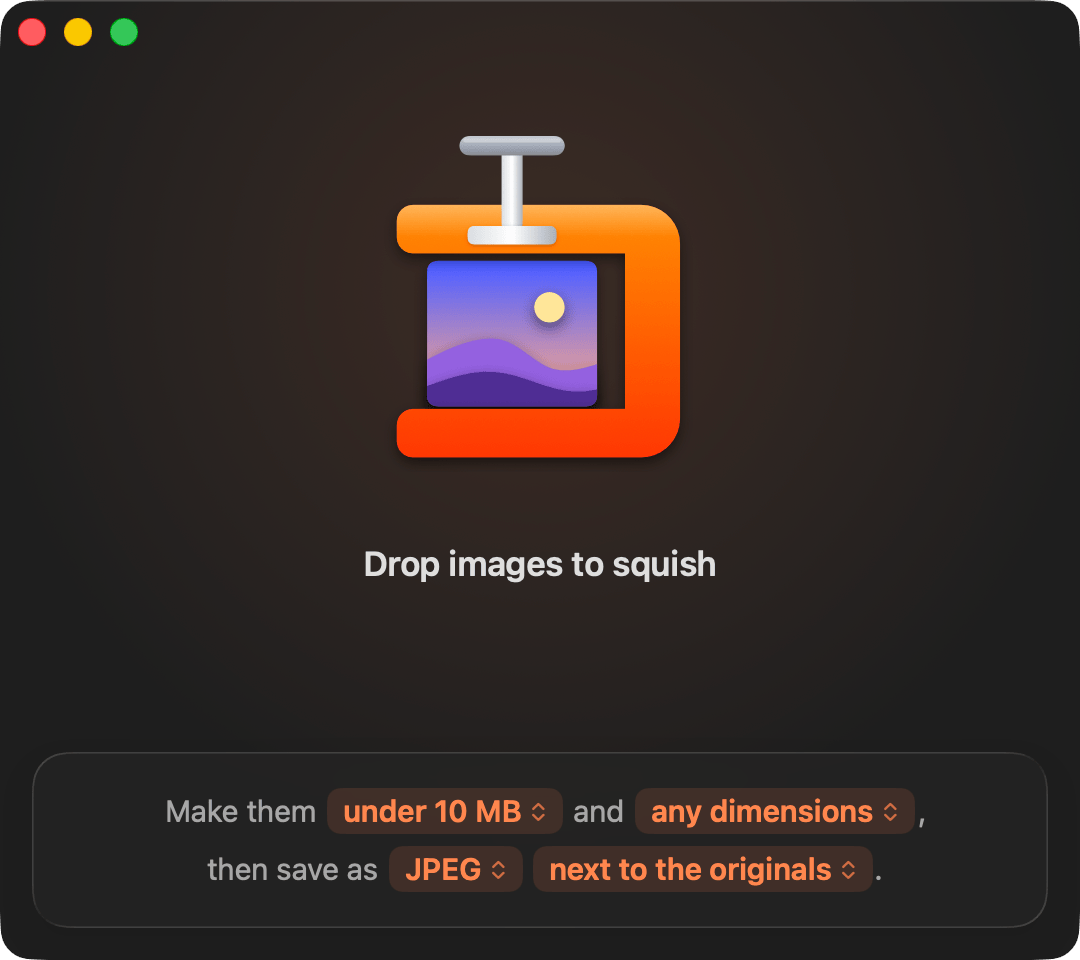
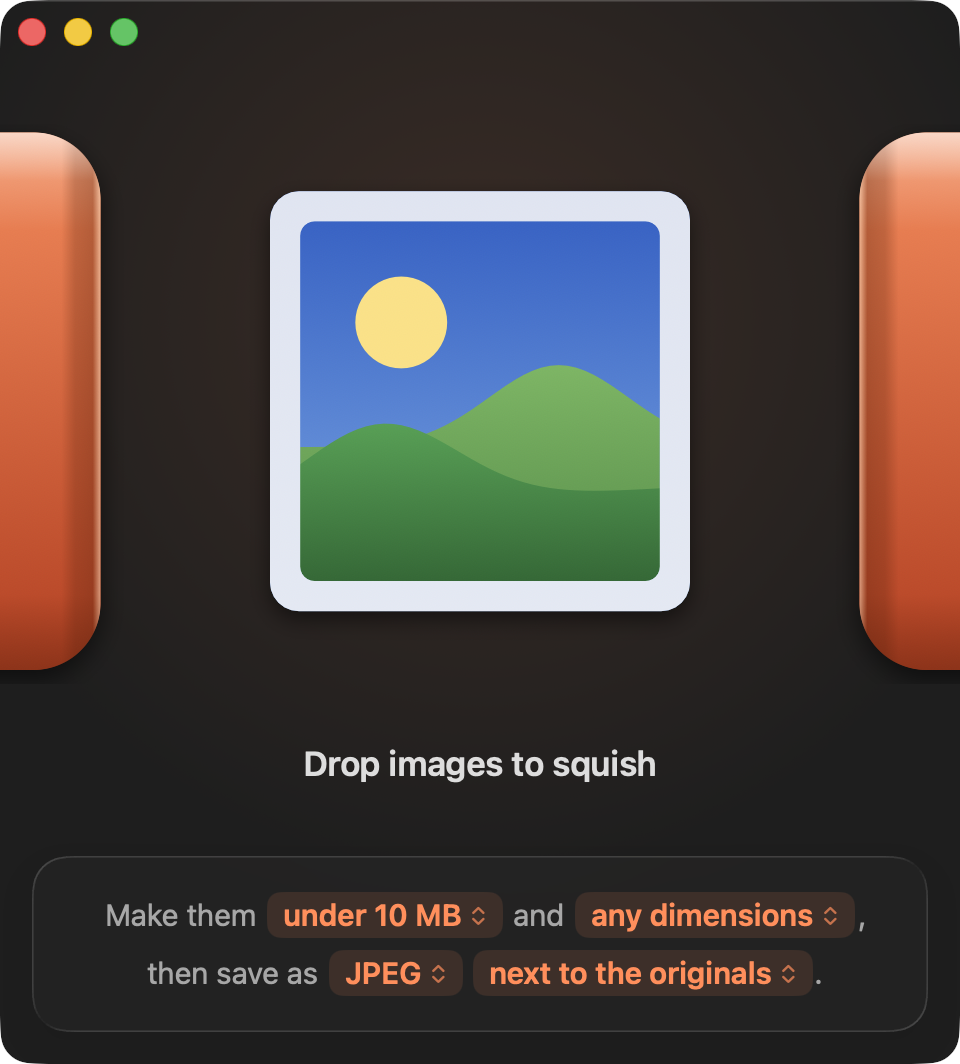
Show the jaws in the README screenshot

diff --git a/README.md b/README.md
@@ -16,7 +16,7 @@
 </p>
 
 <p align="center">
-  <img src="docs/screenshot.png" width="560" alt="Squish window with the sentence: Make them under 10 MB and any dimensions, then save as JPEG next to the originals.">
+  <img src="docs/screenshot.png" width="480" alt="Squish window: a photo between two coral jaws above the sentence: Make them under 10 MB and any dimensions, then save as JPEG next to the originals.">
 </p>
 
 ## Features
